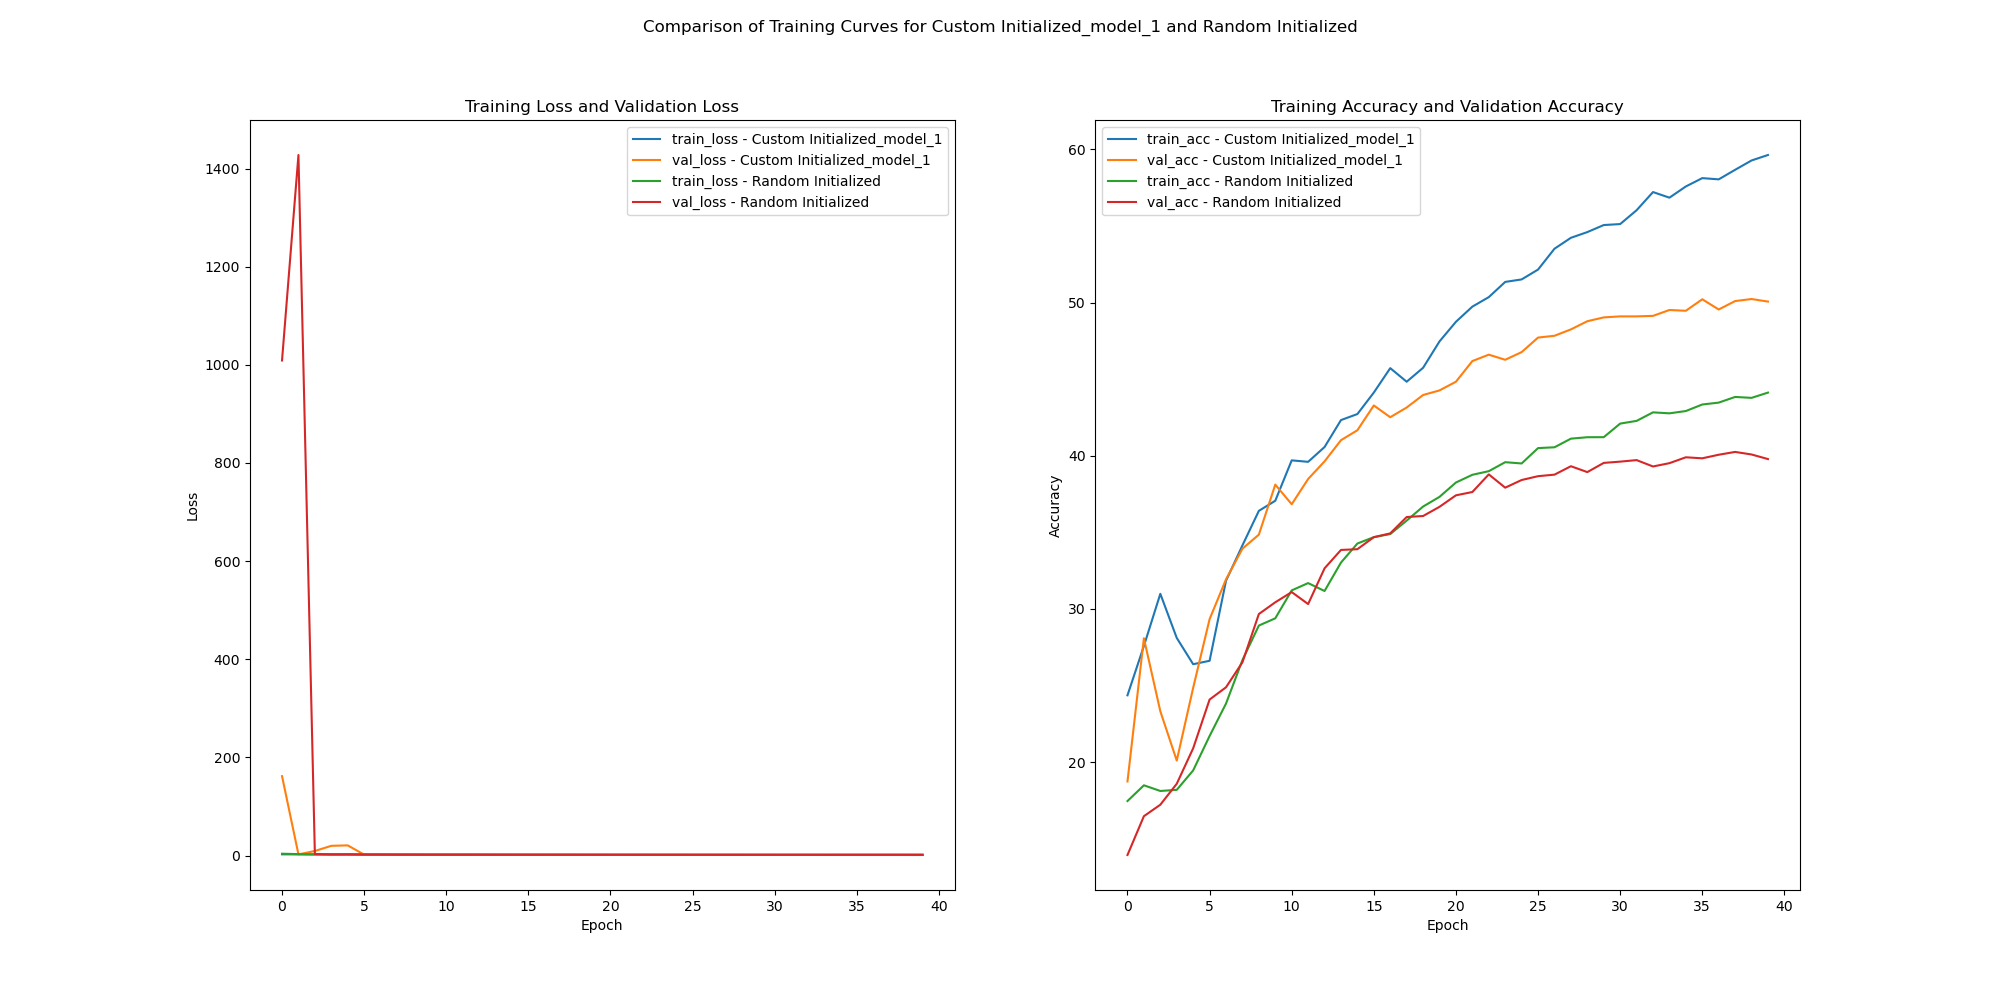
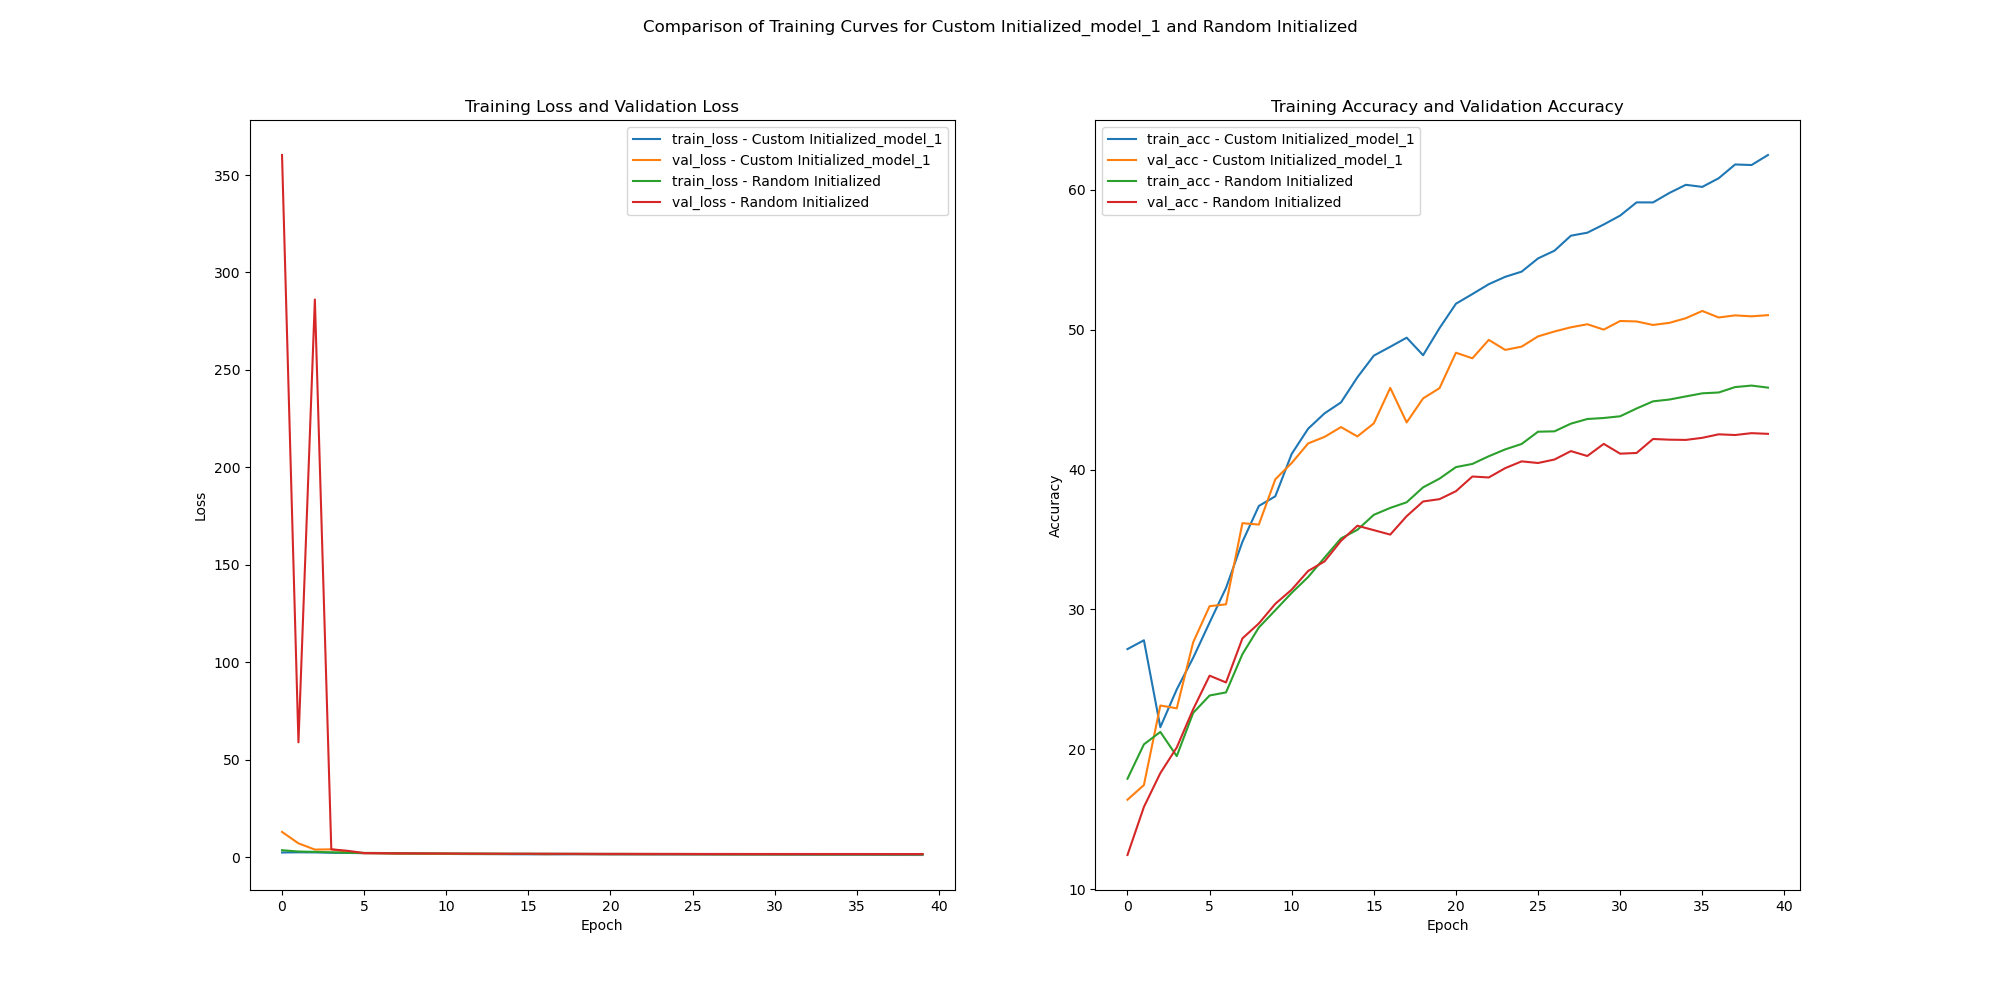
infra normalizer flag

diff --git a/infrastructure.py b/infrastructure.py
@@ -159,9 +159,9 @@ class CIFAR100Subset(Dataset):
     def __len__(self):
         return len(self.data)
 
-def get_loaders_cifar100_superclass_subsets_pytorch(superclass1,superclass2,batch_size=256, num_workers=12):
+def get_loaders_cifar100_superclass_subsets_pytorch(superclass1,superclass2,batch_size=256, num_workers=12, normalize=False):
     loaders = {}
-    datasets = get_dataset_cifar100_superclass_subsets_pytorch(superclass1,superclass2)
+    datasets = get_dataset_cifar100_superclass_subsets_pytorch(superclass1,superclass2,normalize)
     for dataset_name in ["train", "test"]:
         dset = datasets[dataset_name]
         should_shuffle = dataset_name == "train"
@@ -173,20 +173,9 @@ def get_loaders_cifar100_superclass_subsets_pytorch(superclass1,superclass2,batc
         # check if this works, not sure if this deletes to much.
         #del dset, loader, should_shuffle
     return loaders
-"""
-def get_loaders_cifar100_superclass_subsets_from_data_sets_pytorch(datasets,batch_size=256, num_workers=12):
-    loaders = {}
-    for dataset_name in ["train", "test"]:
-        dset = datasets[dataset_name]
-        should_shuffle = dataset_name == "train"
-        loader = DataLoader(dset, batch_size=batch_size, shuffle=should_shuffle, num_workers=num_workers)
-        loaders[dataset_name] = loader
-        # check if this works, not sure if this deletes to much.
-        #del loader, should_shuffle
-    return loaders
-"""
 
-def get_dataset_cifar100_superclass_subsets_pytorch(superclass1,superclass2):
+
+def get_dataset_cifar100_superclass_subsets_pytorch(superclass1,superclass2,normalize=True):
     assert superclass1 != superclass2, "superclass1 and superclass2 must be different"
     assert superclass1 <= 19 and superclass1 >= 0, "superclass1 must be between 0 and 19"
     assert superclass2 <= 19 and superclass2 >= 0, "superclass2 must be between 0 and 19"
@@ -202,20 +191,36 @@ def get_dataset_cifar100_superclass_subsets_pytorch(superclass1,superclass2):
     
     CIFAR_MEAN = [0.5071, 0.4867, 0.4408]
     CIFAR_STD = [0.2675, 0.2565, 0.2761]
-    transforms = {
-        'train': v2.Compose([
-            v2.RandomHorizontalFlip(),
-            v2.RandomRotation(15),
-            v2.ToImage(), 
-            v2.ToDtype(torch.float32, scale=True),
-            v2.Normalize(CIFAR_MEAN, CIFAR_STD)
-        ]),
-        'test': v2.Compose([ 
-            v2.ToImage(), 
-            v2.ToDtype(torch.float32, scale=True),
-            v2.Normalize(CIFAR_MEAN, CIFAR_STD)
-        ])
-    }
+    transforms = {}
+    if normalize:
+        transforms = {
+            'train': v2.Compose([
+                v2.RandomHorizontalFlip(),
+                v2.RandomRotation(15),
+                v2.ToImage(), 
+                v2.ToDtype(torch.float32, scale=True),
+                v2.Normalize(CIFAR_MEAN, CIFAR_STD)
+            ]),
+            'test': v2.Compose([ 
+                v2.ToImage(), 
+                v2.ToDtype(torch.float32, scale=True),
+                v2.Normalize(CIFAR_MEAN, CIFAR_STD)
+            ])}
+    else:
+        transforms = {
+            'train': v2.Compose([
+                v2.RandomHorizontalFlip(),
+                v2.RandomRotation(15),
+                v2.ToImage(), 
+                v2.ToDtype(torch.float32, scale=True),
+                #v2.Normalize(CIFAR_MEAN, CIFAR_STD)
+            ]),
+            'test': v2.Compose([ 
+                v2.ToImage(), 
+                v2.ToDtype(torch.float32, scale=True),
+                #v2.Normalize(CIFAR_MEAN, CIFAR_STD)
+            ])}
+
     dsets = {}
 
     for dataset_name in ["train", "test"]:
